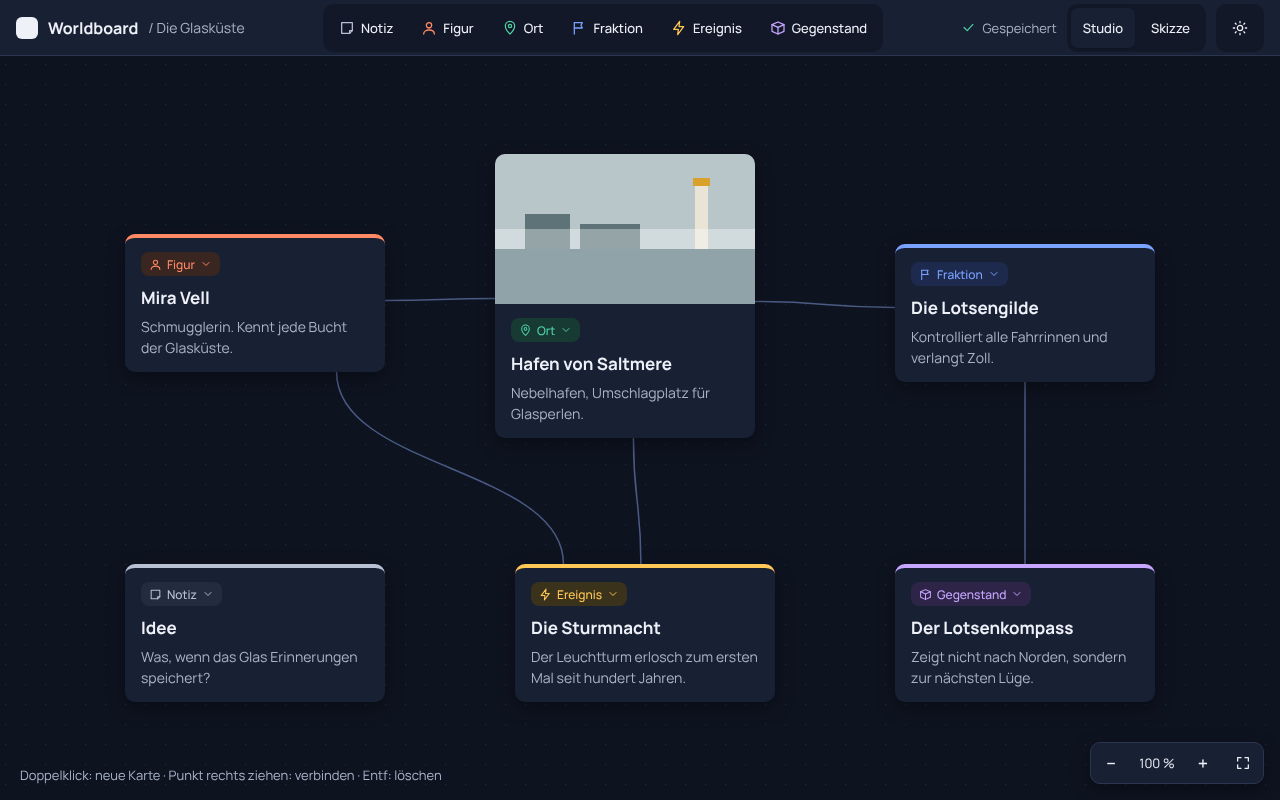
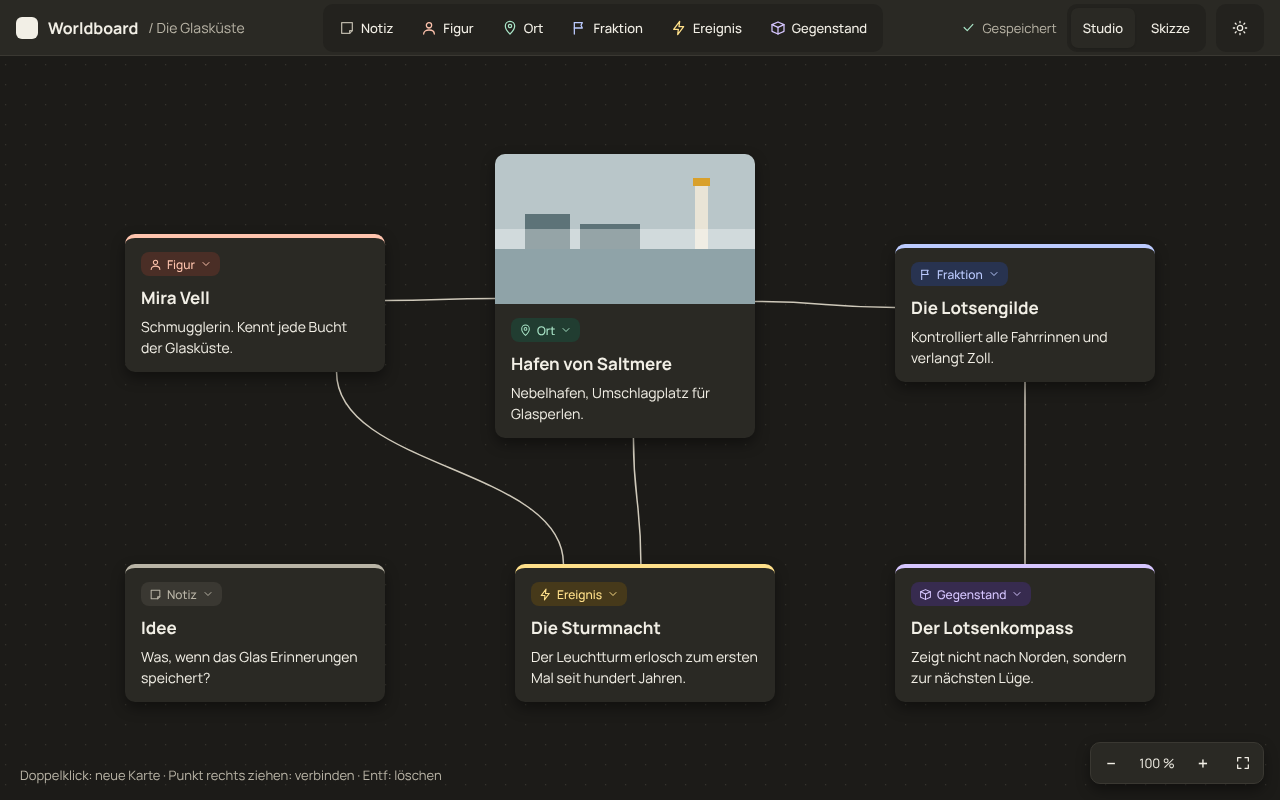
worldboard: Studio-Nachtmodus nutzt die Farben des Skizze-Nachtmodus
Warmes Dunkelgrau statt Nachtblau. Studio behält seine dezenten Rahmen,
damit die Leiste nicht die hellen Tuschelinien des Skizzenbuchs bekommt.

Claude-Session: https://claude.ai/code/session_01HFW1yXGKgoPq67yDFwfe73

diff --git a/worldboard/src/ui/styles.css b/worldboard/src/ui/styles.css
@@ -28,27 +28,6 @@
   --t-gegenstand: #7a5bc7; --t-gegenstand-fg: #5b3fa6; --t-gegenstand-bg: #eee7fb;
 }
 
-:root[data-style="studio"][data-mode="dark"] {
-  --bg: #0e1320;
-  --dot: #222b44;
-  --surface: #182033;
-  --surface-muted: #121828;
-  --border: #2a3550;
-  --text: #eef1f8;
-  --muted: #a9b3c9;
-  --body: #a9b3c9;
-  --accent: #7aa2ff;
-  --edge: #4b5b85;
-  --shadow: 0 6px 18px rgba(0, 0, 0, 0.35);
-
-  --t-notiz: #b8c0d4;      --t-notiz-fg: #b8c0d4;      --t-notiz-bg: #232b3f;
-  --t-figur: #ff8a65;      --t-figur-fg: #ff8a65;      --t-figur-bg: #3a2620;
-  --t-ort: #4fd1a5;        --t-ort-fg: #4fd1a5;        --t-ort-bg: #173a33;
-  --t-fraktion: #7aa2ff;   --t-fraktion-fg: #7aa2ff;   --t-fraktion-bg: #1e2a4d;
-  --t-ereignis: #ffc857;   --t-ereignis-fg: #ffc857;   --t-ereignis-bg: #3a321a;
-  --t-gegenstand: #c7a6ff; --t-gegenstand-fg: #c7a6ff; --t-gegenstand-bg: #2e2447;
-}
-
 :root[data-style="sketch"][data-mode="light"] {
   --bg: #fafaf7;
   --dot: #cfcfc8;
@@ -71,6 +50,7 @@
   --t-gegenstand: #45307a; --t-gegenstand-fg: #45307a; --t-gegenstand-bg: #ebe2ff;
 }
 
+:root[data-style="studio"][data-mode="dark"],
 :root[data-style="sketch"][data-mode="dark"] {
   --bg: #1c1b18;
   --dot: #3a3832;
@@ -91,6 +71,12 @@
   --t-fraktion: #bccbff;   --t-fraktion-fg: #bccbff;   --t-fraktion-bg: #283350;
   --t-ereignis: #ffe08a;   --t-ereignis-fg: #ffe08a;   --t-ereignis-bg: #46391a;
   --t-gegenstand: #d6c6ff; --t-gegenstand-fg: #d6c6ff; --t-gegenstand-bg: #372b4f;
+}
+
+/* Studio nutzt die Skizze-Nachtfarben, aber mit dezenten Rahmen statt Tuschelinien */
+:root[data-style="studio"][data-mode="dark"] {
+  --border: #3a3832;
+  --t-notiz-bg: #3a3832;
 }
 
 :root,
